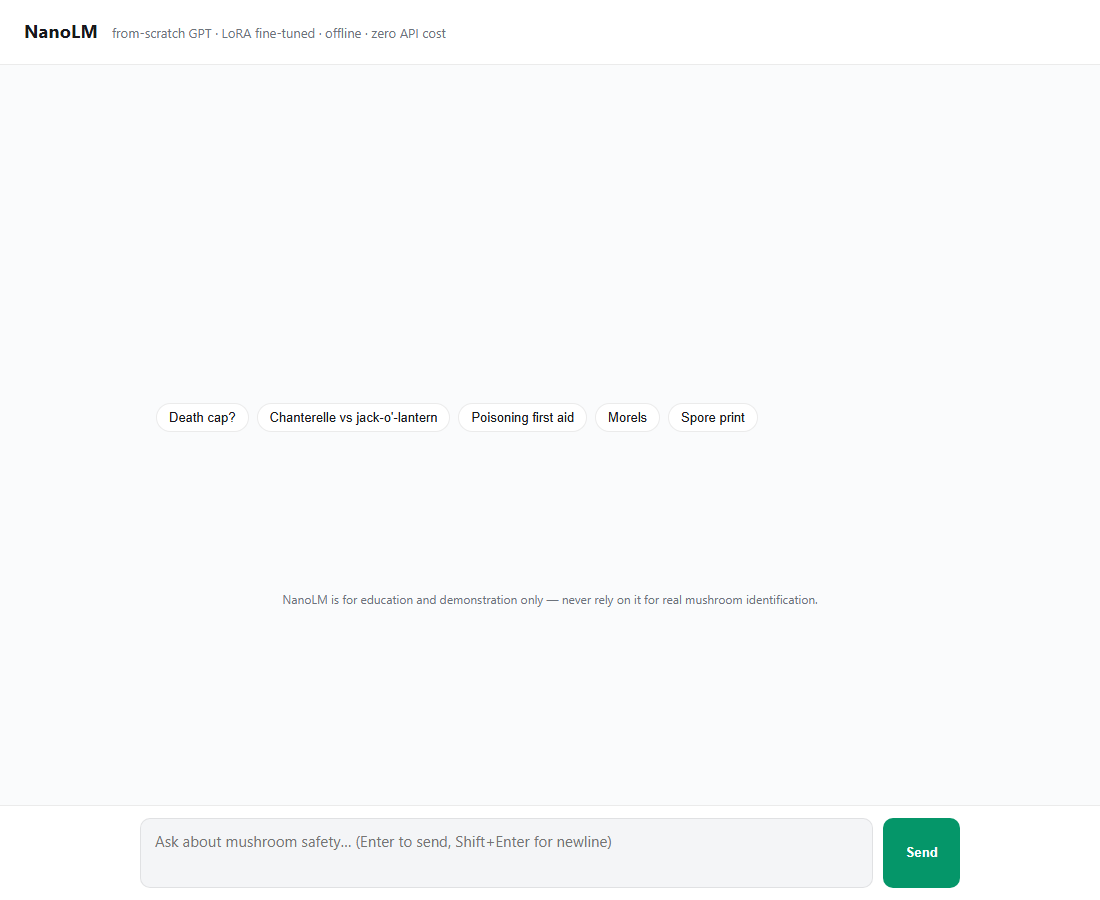
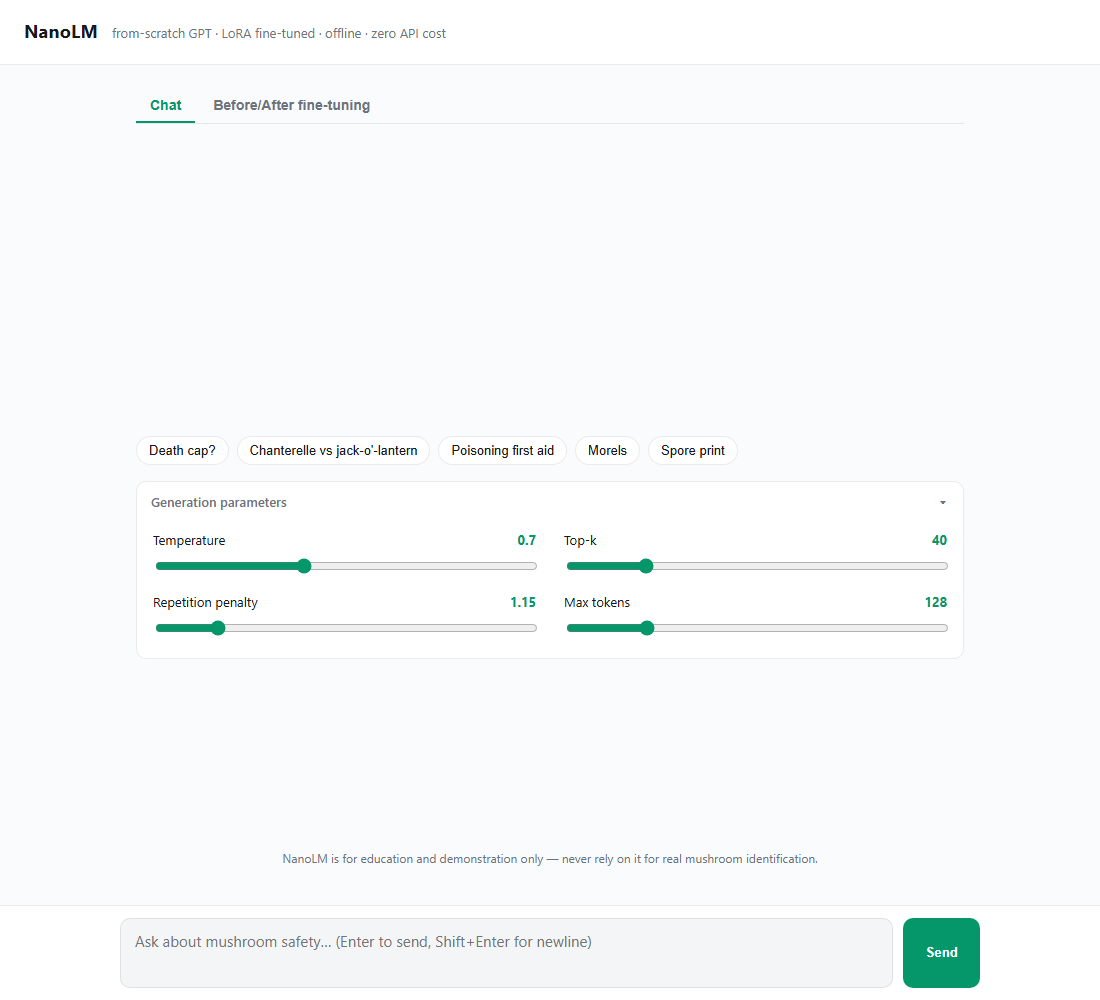
feat(v4): generation-parameter control panel (temperature/top-k/repetition/max-tokens sliders) + Before/After fine-tuning tab with GET /api/comparison (live regeneration via --base-ckpt, results.md fallback), updated chat-UI screenshot

diff --git a/nanollm/server/static/index.html b/nanollm/server/static/index.html
@@ -21,8 +21,20 @@
            display:flex; align-items:baseline; gap:14px; }
   header h1 { font-size:18px; margin:0; letter-spacing:.3px; }
   header span { color:var(--mut); font-size:13px; }
-  main { max-width:820px; margin:0 auto; padding:24px 16px 120px; }
-  #chat { min-height:300px; }
+  main { max-width:860px; margin:0 auto; padding:24px 16px 150px; }
+
+  /* tabs */
+  .tabs { display:flex; gap:4px; border-bottom:1px solid var(--line); margin-bottom:18px; }
+  .tabs button { background:none; border:0; border-bottom:2px solid transparent;
+                 padding:8px 14px; font-size:14px; font-weight:600; color:var(--mut);
+                 cursor:pointer; border-radius:6px 6px 0 0; }
+  .tabs button:hover { color:var(--fg); }
+  .tabs button.active { color:var(--acc); border-bottom-color:var(--acc); }
+  .tabpane { display:none; }
+  .tabpane.active { display:block; }
+
+  /* chat */
+  #chat { min-height:280px; }
   .msg { margin:14px 0; display:flex; gap:10px; }
   .msg .who { flex:0 0 64px; font-weight:600; font-size:13px; color:var(--mut); }
   .msg.user .who { color:var(--acc); }
@@ -37,9 +49,40 @@
   #presets button { background:var(--panel); color:var(--fg); border:1px solid var(--line);
                     border-radius:999px; padding:6px 12px; cursor:pointer; font-size:13px; }
   #presets button:hover { border-color:var(--acc); color:var(--acc); }
+
+  /* generation parameters panel */
+  details.params { background:var(--panel); border:1px solid var(--line); border-radius:10px;
+                   margin:16px 0; overflow:hidden; }
+  details.params summary { cursor:pointer; padding:10px 14px; font-size:13px; font-weight:600;
+                           color:var(--mut); user-select:none; list-style:none; }
+  details.params summary::-webkit-details-marker { display:none; }
+  details.params summary::after { content:"▾"; float:right; color:var(--mut); }
+  details.params:not([open]) summary::after { content:"▸"; }
+  details.params .grid { display:grid; grid-template-columns:repeat(2, minmax(0,1fr)); gap:4px 28px;
+                         padding:2px 16px 14px; }
+  .param { display:flex; flex-direction:column; gap:6px; padding:6px 0; }
+  .param .label { display:flex; justify-content:space-between; font-size:13px; }
+  .param .label b { color:var(--acc); font-variant-numeric:tabular-nums; }
+  input[type=range] { width:100%; accent-color:var(--acc); cursor:pointer; }
+
+  /* comparison */
+  .cmp-q { font-size:15px; font-weight:600; margin:6px 0 14px; }
+  .cmp-cards { display:grid; grid-template-columns:1fr 1fr; gap:14px; }
+  @media (max-width:640px) { .cmp-cards { grid-template-columns:1fr; } }
+  .cmp-card { background:var(--panel); border:1px solid var(--line); border-radius:12px;
+              padding:14px 16px; box-shadow:0 1px 2px rgba(0,0,0,0.03); }
+  .cmp-card.after { border-color:var(--acc); box-shadow:0 0 0 1px var(--acc); }
+  .cmp-card .h { display:flex; align-items:center; gap:8px; margin-bottom:10px; }
+  .cmp-card .h b { font-size:13px; text-transform:uppercase; letter-spacing:.4px; color:var(--mut); }
+  .badge { font-size:11px; font-weight:700; padding:2px 8px; border-radius:999px;
+           background:var(--acc); color:#fff; }
+  .cmp-card .body { white-space:pre-wrap; overflow-wrap:anywhere; font-size:14px; color:var(--fg); }
+  .cmp-src { color:var(--mut); font-size:12px; margin-top:14px; }
+  #cmp-loading { color:var(--mut); font-size:14px; }
+
   #inputbar { position:fixed; left:0; right:0; bottom:0; background:var(--panel);
               border-top:1px solid var(--line); padding:12px 16px; }
-  #inputbar > div { max-width:820px; margin:0 auto; display:flex; gap:10px; }
+  #inputbar > div { max-width:860px; margin:0 auto; display:flex; gap:10px; }
   #input { flex:1; background:var(--panel-2); color:var(--fg); border:1px solid var(--line);
            border-radius:10px; padding:11px 14px; font:inherit; resize:none; }
   #input:focus { outline:none; border-color:var(--acc); }
@@ -53,13 +96,59 @@
 <body>
 <header><h1>NanoLM</h1><span>from-scratch GPT · LoRA fine-tuned · offline · zero API cost</span></header>
 <main>
-  <div id="chat"></div>
-  <div id="presets">
-    <button data-q="Is the death cap mushroom poisonous?">Death cap?</button>
-    <button data-q="How can I tell a chanterelle from a jack-o'-lantern mushroom?">Chanterelle vs jack-o'-lantern</button>
-    <button data-q="What should I do if someone eats a poisonous mushroom?">Poisoning first aid</button>
-    <button data-q="Are morels safe to eat?">Morels</button>
-    <button data-q="How do I take a spore print?">Spore print</button>
+  <div class="tabs">
+    <button id="tab-chat" class="active">Chat</button>
+    <button id="tab-cmp">Before/After fine-tuning</button>
+  </div>
+
+  <!-- Chat tab -->
+  <div id="pane-chat" class="tabpane active">
+    <div id="chat"></div>
+    <div id="presets">
+      <button data-q="Is the death cap mushroom poisonous?">Death cap?</button>
+      <button data-q="How can I tell a chanterelle from a jack-o'-lantern mushroom?">Chanterelle vs jack-o'-lantern</button>
+      <button data-q="What should I do if someone eats a poisonous mushroom?">Poisoning first aid</button>
+      <button data-q="Are morels safe to eat?">Morels</button>
+      <button data-q="How do I take a spore print?">Spore print</button>
+    </div>
+    <details class="params" open>
+      <summary>Generation parameters</summary>
+      <div class="grid">
+        <div class="param">
+          <div class="label"><span>Temperature</span><b id="val-temperature">0.7</b></div>
+          <input type="range" id="sl-temperature" min="0.2" max="1.5" step="0.1" value="0.7">
+        </div>
+        <div class="param">
+          <div class="label"><span>Top-k</span><b id="val-top_k">40</b></div>
+          <input type="range" id="sl-top_k" min="1" max="200" step="1" value="40">
+        </div>
+        <div class="param">
+          <div class="label"><span>Repetition penalty</span><b id="val-repetition_penalty">1.15</b></div>
+          <input type="range" id="sl-repetition_penalty" min="1.0" max="2.0" step="0.05" value="1.15">
+        </div>
+        <div class="param">
+          <div class="label"><span>Max tokens</span><b id="val-max_tokens">128</b></div>
+          <input type="range" id="sl-max_tokens" min="32" max="512" step="1" value="128">
+        </div>
+      </div>
+    </details>
+  </div>
+
+  <!-- Before/After comparison tab -->
+  <div id="pane-cmp" class="tabpane">
+    <p class="cmp-q" id="cmp-question">…</p>
+    <div id="cmp-loading">Loading comparison…</div>
+    <div class="cmp-cards" id="cmp-cards" style="display:none">
+      <div class="cmp-card before">
+        <div class="h"><b>Before fine-tuning</b><span class="badge" style="background:var(--panel-2);color:var(--mut)">base model</span></div>
+        <div class="body" id="cmp-before"></div>
+      </div>
+      <div class="cmp-card after">
+        <div class="h"><b>After fine-tuning</b><span class="badge">fine-tuned</span></div>
+        <div class="body" id="cmp-after"></div>
+      </div>
+    </div>
+    <p class="cmp-src" id="cmp-source"></p>
   </div>
 </main>
 <div id="inputbar"><div>
@@ -73,6 +162,29 @@ const chat = document.getElementById('chat'), input = document.getElementById('i
       send = document.getElementById('send');
 let streaming = false;
 
+/* ---------- generation parameters ---------- */
+const params = {temperature: 0.7, top_k: 40, repetition_penalty: 1.15, max_tokens: 128};
+['temperature','top_k','repetition_penalty','max_tokens'].forEach(k => {
+  const sl = document.getElementById('sl-' + k);
+  const val = document.getElementById('val-' + k);
+  sl.addEventListener('input', () => {
+    params[k] = parseFloat(sl.value);
+    val.textContent = sl.value;
+  });
+});
+
+/* ---------- tabs ---------- */
+function switchTab(name) {
+  document.getElementById('tab-chat').classList.toggle('active', name === 'chat');
+  document.getElementById('tab-cmp').classList.toggle('active', name === 'cmp');
+  document.getElementById('pane-chat').classList.toggle('active', name === 'chat');
+  document.getElementById('pane-cmp').classList.toggle('active', name === 'cmp');
+  if (name === 'cmp') loadComparison();
+}
+document.getElementById('tab-chat').addEventListener('click', () => switchTab('chat'));
+document.getElementById('tab-cmp').addEventListener('click', () => switchTab('cmp'));
+
+/* ---------- chat ---------- */
 function addMsg(role, text) {
   const div = document.createElement('div');
   div.className = 'msg ' + role;
@@ -95,8 +207,9 @@ async function ask(prompt) {
     const res = await fetch('/api/chat', {
       method: 'POST',
       headers: {'Content-Type': 'application/json'},
-      body: JSON.stringify({prompt, max_tokens: 160, temperature: 0.7, top_k: 40,
-                            repetition_penalty: 1.15, no_repeat_ngram_size: 4}),
+      body: JSON.stringify({prompt, max_tokens: params.max_tokens, temperature: params.temperature,
+                            top_k: params.top_k, repetition_penalty: params.repetition_penalty,
+                            no_repeat_ngram_size: 4}),
     });
     const reader = res.body.getReader();
     const decoder = new TextDecoder();
@@ -122,6 +235,25 @@ async function ask(prompt) {
     streaming = false;
     send.disabled = false;
     input.focus();
+  }
+}
+
+/* ---------- before/after comparison ---------- */
+let cmpLoaded = false;
+async function loadComparison() {
+  if (cmpLoaded) return;
+  try {
+    const res = await fetch('/api/comparison');
+    const data = await res.json();
+    document.getElementById('cmp-question').textContent = 'Q: ' + data.question;
+    document.getElementById('cmp-before').textContent = data.before;
+    document.getElementById('cmp-after').textContent = data.after;
+    document.getElementById('cmp-source').textContent = data.source;
+    document.getElementById('cmp-loading').style.display = 'none';
+    document.getElementById('cmp-cards').style.display = 'grid';
+    cmpLoaded = true;
+  } catch (e) {
+    document.getElementById('cmp-loading').textContent = 'Failed to load comparison: ' + e.message;
   }
 }
 

diff --git a/nanollm/server/app.py b/nanollm/server/app.py
@@ -2,11 +2,15 @@
 
 Run:
     python -m nanollm.server.app --model checkpoints/merged.pt --port 8000
+    # with the before/after comparison backed by real checkpoints:
+    python -m nanollm.server.app --model checkpoints/merged.pt \
+        --base-ckpt out/pretrain/best.ckpt --port 8000
 
 Endpoints:
     GET  /                chat UI (static)
     GET  /api/health      model status
     POST /api/chat        streaming SSE chat (JSON body, see ChatRequest)
+    GET  /api/comparison  before/after fine-tuning answers (same question)
 """
 
 from __future__ import annotations
@@ -24,11 +28,32 @@ from fastapi import FastAPI
 from fastapi.responses import FileResponse, StreamingResponse
 from pydantic import BaseModel, Field
 
-from nanollm.generation import END_MARKER, drop_leading_junk, generate_tokens
+from nanollm.generation import END_MARKER, drop_leading_junk, generate_answer, generate_tokens
 from nanollm.model import GPT, GPTConfig
 from nanollm.tokenizer import BPETokenizer
 
 STATIC_DIR = Path(__file__).parent / "static"
+
+COMPARISON_QUESTION = "Is the death cap mushroom poisonous?"
+
+# Fallback examples: real outputs sampled from the actual checkpoints during
+# the training run (documented in docs/results.md). Used when the server runs
+# without --base-ckpt (or the base checkpoint file is unavailable).
+COMPARISON_FALLBACK = {
+    "before": (
+        "before the death when the only a mushroom market. It is usually does not made by "
+        "a group of a poisonous or a full color. It can be too small, but this is too much "
+        "more than any way when it is no symptoms of a doctor or too much when it is too much "
+        "to learn, and help with a person feels."
+    ),
+    "after": (
+        "the death cap is deadly poisonous and should never be eaten. Amatoxins, chiefly "
+        "alpha-amanitin, which block rna polymerase ii and destroy liver cells. Delayed "
+        "poisoning: 6-24 hours after eating, violent cramps, vomiting and watery diarrhea "
+        "begin, followed by a deceptive improvement and then liver and kidney failure. "
+        "Contact a poison control center immediately if it is eaten."
+    ),
+}
 
 
 class ChatRequest(BaseModel):
@@ -46,17 +71,27 @@ class ModelRuntime:
 
     def __init__(self):
         self.model: Optional[GPT] = None
+        self.base_model: Optional[GPT] = None  # base (pre-LoRA) model for comparison
         self.tokenizer: Optional[BPETokenizer] = None
         self.device = "cpu"
+        self._comparison: Optional[dict] = None
 
-    def load(self, ckpt_path: str, tokenizer_path: str, device: str):
-        self.device = device if device != "auto" else ("cuda" if torch.cuda.is_available() else "cpu")
-        self.tokenizer = BPETokenizer.load(tokenizer_path)
+    def _load_one(self, ckpt_path: str) -> GPT:
         ckpt = torch.load(ckpt_path, map_location=self.device, weights_only=True)
         config = GPTConfig(**ckpt["config"])
-        self.model = GPT(config).to(self.device)
-        self.model.load_state_dict(ckpt["model"])
-        self.model.eval()
+        model = GPT(config).to(self.device)
+        model.load_state_dict(ckpt["model"])
+        model.eval()
+        return model
+
+    def load(self, ckpt_path: str, tokenizer_path: str, device: str, base_ckpt: Optional[str] = None):
+        self.device = device if device != "auto" else ("cuda" if torch.cuda.is_available() else "cpu")
+        self.tokenizer = BPETokenizer.load(tokenizer_path)
+        self.model = self._load_one(ckpt_path)
+        self.base_model = None
+        if base_ckpt and Path(base_ckpt).exists():
+            self.base_model = self._load_one(base_ckpt)
+        self._comparison = None
 
     @property
     def ready(self) -> bool:
@@ -135,6 +170,37 @@ async def chat(req: ChatRequest):
                              headers={"Cache-Control": "no-cache", "X-Accel-Buffering": "no"})
 
 
+@app.get("/api/comparison")
+def comparison():
+    """Before/after fine-tuning answers for the same question.
+
+    With ``--base-ckpt`` provided, both answers are regenerated live from the
+    real checkpoints (seeded, deterministic).  Otherwise the fallback examples
+    from ``docs/results.md`` (real sampled outputs from the training run) are
+    returned.  The result is computed once and cached.
+    """
+    if not runtime.ready:
+        return {"error": "model not loaded"}
+    if runtime._comparison is not None:
+        return runtime._comparison
+
+    if runtime.base_model is not None:
+        before = generate_answer(runtime.base_model, runtime.tokenizer, COMPARISON_QUESTION, seed=3)
+        after = generate_answer(runtime.model, runtime.tokenizer, COMPARISON_QUESTION, seed=3)
+        source = ("Answers regenerated live from the real checkpoints "
+                  "(before = base pretrained model, after = LoRA-merged model; "
+                  "temperature 0.7, top-k 40, seed 3).")
+    else:
+        before = COMPARISON_FALLBACK["before"]
+        after = COMPARISON_FALLBACK["after"]
+        source = ("Example outputs sampled from the real checkpoints during the training "
+                  "run (see docs/results.md). Start the server with --base-ckpt to "
+                  "regenerate them live.")
+
+    runtime._comparison = {"question": COMPARISON_QUESTION, "before": before, "after": after, "source": source}
+    return runtime._comparison
+
+
 @app.get("/")
 def index():
     return FileResponse(STATIC_DIR / "index.html")
@@ -144,14 +210,17 @@ def main(argv=None):
     p = argparse.ArgumentParser(description="NanoLM inference server")
     p.add_argument("--model", type=str, required=True, help="merged .pt or .ckpt")
     p.add_argument("--tokenizer", type=str, default="data/processed/tokenizer.json")
+    p.add_argument("--base-ckpt", type=str, default=None,
+                   help="base (pre-LoRA) checkpoint for the /api/comparison endpoint")
     p.add_argument("--device", type=str, default="auto")
     p.add_argument("--host", type=str, default="127.0.0.1")
     p.add_argument("--port", type=int, default=8000)
     args = p.parse_args(argv)
 
     import uvicorn
-    runtime.load(args.model, args.tokenizer, args.device)
+    runtime.load(args.model, args.tokenizer, args.device, args.base_ckpt)
     print(f"[server] model loaded: {args.model} | device={runtime.device} | "
+          f"base_ckpt={'yes' if runtime.base_model is not None else 'no (fallback comparison)'} | "
           f"http://{args.host}:{args.port}")
     uvicorn.run(app, host=args.host, port=args.port, log_level="info")
 

diff --git a/tests/test_api.py b/tests/test_api.py
@@ -16,6 +16,8 @@ def client(tiny_checkpoint, tiny_tokenizer):
         yield c
     runtime.model = None
     runtime.tokenizer = None
+    runtime.base_model = None
+    runtime._comparison = None
 
 
 def test_health(client):
@@ -56,3 +58,22 @@ def test_index_serves_ui(client):
     r = client.get("/")
     assert r.status_code == 200
     assert "NanoLM" in r.text
+    # the v4 UI ships: tabs, generation-parameter sliders, comparison pane
+    assert "Before/After fine-tuning" in r.text
+    assert "Generation parameters" in r.text
+    assert "sl-temperature" in r.text
+
+
+def test_comparison_returns_structured_json(client):
+    # no --base-ckpt in tests -> fallback examples from docs/results.md
+    r = client.get("/api/comparison")
+    assert r.status_code == 200
+    body = r.json()
+    assert set(body) == {"question", "before", "after", "source"}
+    assert body["question"]
+    assert len(body["before"]) > 20
+    assert len(body["after"]) > 20
+    assert "checkpoints" in body["source"] or "results.md" in body["source"]
+    # cached on repeat calls
+    r2 = client.get("/api/comparison")
+    assert r2.json() == body
